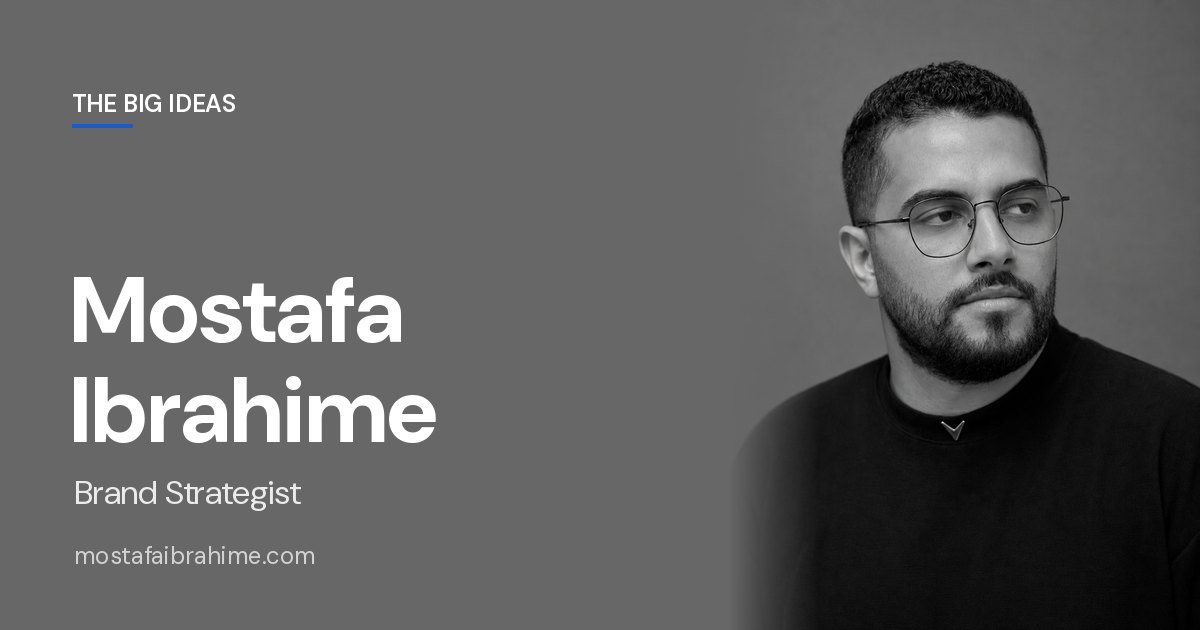
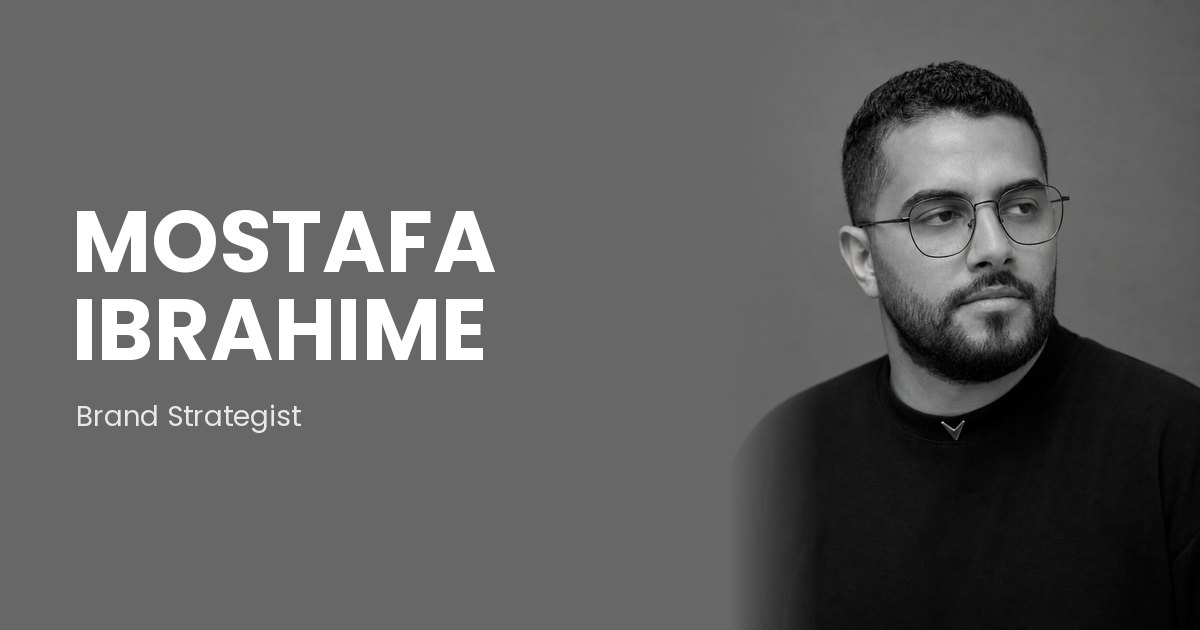
Share image: name in Poppins Bold, title in Poppins
Claude-Session: https://claude.ai/code/session_01VLTDsAoEsQGiVR817xzE8p

diff --git a/index.html b/index.html
@@ -11,8 +11,8 @@
 <meta property="og:url" content="https://mostafaibrahime.com/">
 <meta property="og:title" content="Mostafa Ibrahime — Brand Strategist">
 <meta property="og:description" content="The Big Ideas: brand strategy, naming and identity, from research to one strong idea.">
-<meta property="og:image" content="https://mostafaibrahime.com/img/og.jpg">
-<meta property="og:image:secure_url" content="https://mostafaibrahime.com/img/og.jpg">
+<meta property="og:image" content="https://mostafaibrahime.com/img/og.jpg?v=2">
+<meta property="og:image:secure_url" content="https://mostafaibrahime.com/img/og.jpg?v=2">
 <meta property="og:image:type" content="image/jpeg">
 <meta property="og:image:width" content="1200">
 <meta property="og:image:height" content="630">
@@ -20,7 +20,7 @@
 <meta name="twitter:card" content="summary_large_image">
 <meta name="twitter:title" content="Mostafa Ibrahime — Brand Strategist">
 <meta name="twitter:description" content="The Big Ideas: brand strategy, naming and identity, from research to one strong idea.">
-<meta name="twitter:image" content="https://mostafaibrahime.com/img/og.jpg">
+<meta name="twitter:image" content="https://mostafaibrahime.com/img/og.jpg?v=2">
 <link rel="preconnect" href="https://fonts.googleapis.com">
 <link rel="preconnect" href="https://fonts.gstatic.com" crossorigin>
 <link href="https://fonts.googleapis.com/css2?family=Hanken+Grotesk:wght@300;400;500;600;700&display=swap" rel="stylesheet">
